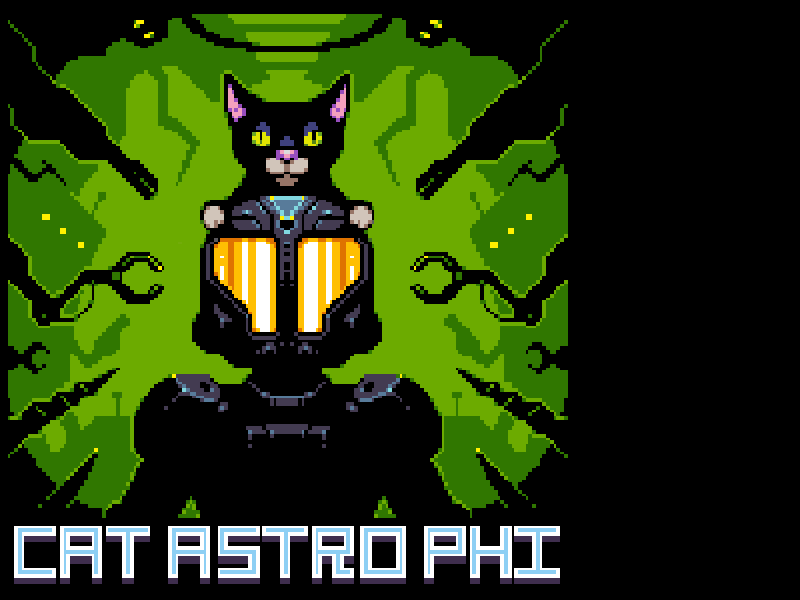
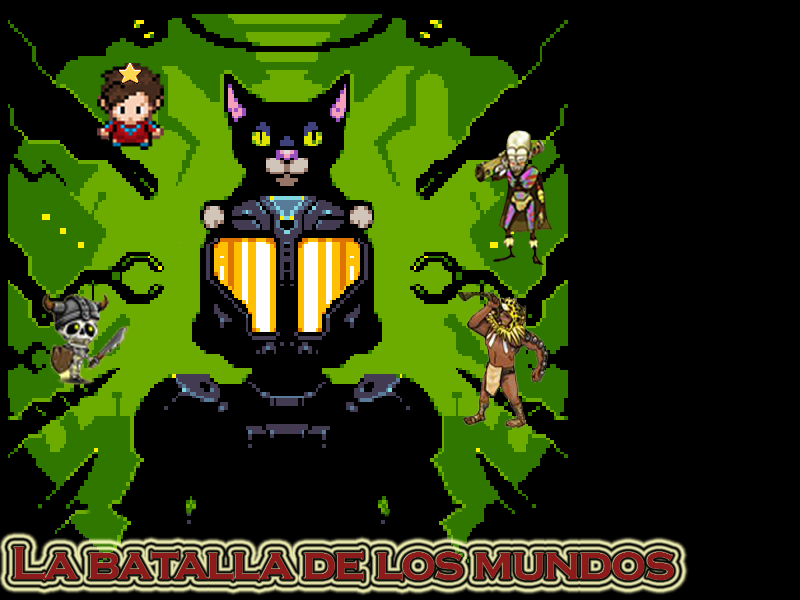
juego casi terminado

diff --git a/js/starstruck.js b/js/starstruck.js
@@ -13,6 +13,8 @@ function preload() {
     game.load.image('background', 'assets/games/starstruck/h.jpg');
     game.load.audio('vallenato', 'assets/games/starstruck/vallenato.mp3');
     game.load.image('star', 'assets/games/starstruck/star.png');
+    game.load.image('vencedor', 'assets/games/starstruck/ganador.png');
+    game.load.image('fallido', 'assets/games/starstruck/gameov.png');
 }
 
 var map;
@@ -28,8 +30,18 @@ var calavera=[];
 var bulletTime = 0;
 var FireI;
 var FireD;
-function create() {
+var puntaje=0;
+var puntajeTexto;
+var vidas=3;
+var textoEstado;
+var numeroEnemigos=50;
+var meta;
 
+function ganador(){
+    bg = game.add.tileSprite(0, 0, 1200, 600, 'vencedor');
+    bg.fixedToCamera = true;
+}
+function create() {
 
 //---------------audio--------------------------///
 
@@ -38,7 +50,7 @@ function create() {
   
 //--------------------fin audio-------------------------//
 
-
+//---------------background--------------------------///
     game.physics.startSystem(Phaser.Physics.ARCADE);
 
     game.stage.backgroundColor = '#000000';
@@ -60,8 +72,10 @@ function create() {
     layer.resizeWorld();
 
     game.physics.arcade.gravity.y = 250;
+//-----------------------------------------///
 
-    player = game.add.sprite(120, 100, 'dude');
+//---------------jugador--------------------------///
+            player = game.add.sprite(120, 100, 'dude');
     game.physics.enable(player, Phaser.Physics.ARCADE);
 
     player.body.bounce.y = 0.2;
@@ -74,16 +88,39 @@ function create() {
 
     game.camera.follow(player);
 
+
+    meta = game.add.sprite(630, 976, 'starBig');
+    game.physics.enable(meta, Phaser.Physics.ARCADE);
+
+    meta.body.bounce.y = 0.2;
+    meta.body.collideWorldBounds = true;
+    meta.body.setSize(20, 32, 5, 16);
+    meta.anchor.setTo(0.5, 0.5)
+
+//-----------------------------------------///
+
+//---------------texto--------------------------///
+ textoEstado = game.add.text(100,0,'Numero de vidas: '+vidas, { font: '50px Arial', fill: '#99f' }); 
+
+textoEstado.anchor.setTo(0.5, 0.5);
+
+ textoEstado.visible = true; 
+//------------------------------------------------///
+
+//---------------teclado--------------------------///
+
     cursors = game.input.keyboard.createCursorKeys();
     jumpButton = game.input.keyboard.addKey(Phaser.Keyboard.SPACEBAR);
     FireI = game.input.keyboard.addKey(Phaser.Keyboard.A);
     FireD = game.input.keyboard.addKey(Phaser.Keyboard.S);
+//------------------------------------------------///
+
 
         //  Our bullet group
     bullets = game.add.group();
     bullets.enableBody = true;
     bullets.physicsBodyType = Phaser.Physics.ARCADE;
-    bullets.createMultiple(1, 'star');
+    bullets.createMultiple(5, 'star');
     bullets.setAll('anchor.x', 0.5);
     bullets.setAll('anchor.y', 1);
     bullets.setAll('outOfBoundsKill', true);
@@ -95,7 +132,8 @@ function create() {
     enemigos = game.add.group();
     enemigos.enableBody = true;
     enemigos.physicsBodyType = Phaser.Physics.ARCADE;
-    for (var x = 0; x < 30; x++)
+    
+    for (var x = 0; x < numeroEnemigos; x++)
         {
             calavera[x] = enemigos.create(game.world.randomX, game.world.randomY,'enemihuesos');
             calavera[x].anchor.setTo(0.5, 0.5);
@@ -113,6 +151,8 @@ function create() {
     tween.onLoop.add(descend, this);
 //------------------</enemigos>-------------------//
 
+
+
 }
 
 function movimientoEnemigo(enemigo){
@@ -129,22 +169,58 @@ function collisionHandler(player, enemigos){
 }
 function muertePlayer(player){
     player.kill();
+    var sprite = game.add.sprite(game.world.centerX, game.world.centerY, 'fallido');
+
+    sprite.anchor.setTo(0.5, 0.5);
+    sprite.alpha = 0;
+
+    //  Create our tween. This will fade the sprite to alpha 1 over the duration of 2 seconds
+    var tween = game.add.tween(sprite).to( { alpha: 1 }, 2000, "Linear", true, 0, -1);
+
+    //  And this tells it to yoyo, i.e. fade back to zero again before repeating.
+    //  The 3000 tells it to wait for 3 seconds before starting the fade back.
+    tween.yoyo(true, 3000);
+    tween.fixedToCamera = false;
+    vidas=0;
 }
 function muerteEnemigo(bullets, enemigos){
     bullets.kill();
     enemigos.kill();
 }
+function victoria(player, meta){
+    player.kill();
+    meta.kill();
+
+    var sprite = game.add.sprite(game.world.centerX, game.world.centerY, 'vencedor');
+
+    sprite.anchor.setTo(0.5, 0.5);
+    sprite.alpha = 0;
+
+    //  Create our tween. This will fade the sprite to alpha 1 over the duration of 2 seconds
+    var tween = game.add.tween(sprite).to( { alpha: 1 }, 2000, "Linear", true, 0, -1);
+
+    //  And this tells it to yoyo, i.e. fade back to zero again before repeating.
+    //  The 3000 tells it to wait for 3 seconds before starting the fade back.
+    tween.yoyo(true, 3000);
+    tween.fixedToCamera = false;
+}
+
 function update() {
+
     bg.tilePosition.y += 1;
     //Colisiones entre elementos del juego
     game.physics.arcade.collide(player, layer);
     game.physics.arcade.collide(enemigos, layer);
     //game.physics.arcade.collide(enemigos, bullets);
-    game.physics.arcade.collide(enemigos, enemigos);
+    //game.physics.arcade.collide(enemigos, enemigos);
+    //game.physics.arcade.collide(player, meta);
+    game.physics.arcade.collide(layer, meta);
     player.body.velocity.x = 0;
     if(player.alive){
         game.physics.arcade.overlap(player, enemigos, muertePlayer, null, this);
+
         game.physics.arcade.overlap(bullets, enemigos, muerteEnemigo, null, this);
+        game.physics.arcade.overlap(player, meta, victoria, null, this);
     }
     if (cursors.left.isDown)
     {
@@ -248,9 +324,15 @@ function fireBulletIzq() {
 
 }
 
+function crearJugador(){
+
+}
 function render () {
 
-    game.debug.text(game.time.physicsElapsed, 32, 32);
+    /*game.debug.text(game.time.physicsElapse, 32, 32);
      game.debug.body(player);
-     game.debug.bodyInfo(player, 16, 24);
+     game.debug.bodyInfo(player, 16, 24);*/
+}
+function ganador(){
+
 }

diff --git a/js/butonAudio.js b/js/butonAudio.js
@@ -5,7 +5,7 @@ function preload() {
 
     game.load.image('title', 'assets/games/inicio/catastrophi.png');
 
-    game.load.image('button', 'assets/games/inicio/star2.png', 22, 22);
+    game.load.image('button', 'assets/games/inicio/boton1.png', 11, 5);
     game.load.bitmapFont('nokia', 'assets/games/inicio/nokia16black.png', 'assets/games/inicio/nokia16black.xml');
     // game.load.audio('sfx', [ 'assets/audio/SoundEffects/fx_mixdown.mp3', 'assets/audio/SoundEffects/fx_mixdown.ogg' ]);
     game.load.audio('sfx', 'assets/games/inicio/audio/fx_mixdown.ogg');
@@ -38,15 +38,16 @@ function create() {
 	fx.addMarker('squit', 19, 0.3);
 
 	//	Make some buttons to trigger the sounds
-	makeButton('alien death', 600, 100);
-	makeButton('boss hit', 600, 140);
-	makeButton('escape', 600, 180);
+	makeButton('Iniciar', 600, 100);
+	/*
+	makeButton('boss hit', 600, 180);
+	makeButton('escape', 600, 260);
 	makeButton('meow', 600, 220);
 	makeButton('numkey', 600, 260);
 	makeButton('ping', 600, 300);
 	makeButton('death', 600, 340);
 	makeButton('shot', 600, 380);
-	makeButton('squit', 600, 420);
+	makeButton('squit', 600, 420);*/
 
 }
 
@@ -54,10 +55,10 @@ function makeButton(name, x, y) {
 
     var button = game.add.button(x, y, 'button', click, this, 0, 1, 2);
     button.name = name;
-    button.scale.set(2, 1.5);
+    button.scale.set(0.3, 0.3);
     button.smoothed = false;
 
-    var text = game.add.bitmapText(x, y + 7, 'nokia', name, 16);
+    var text = game.add.bitmapText(x, y + 54, 'nokia', name, 16);
     text.x += (button.width / 2) - (text.textWidth / 2);
 
 }
@@ -85,6 +86,7 @@ function mostrarAviso(){
 }
 function rediret(){
 		//window.location.href = "https://www.tutorialrepublic.com/"
-		window.location.href = "file:///C:/Users/Rigo/Documents/NetBeansProjects/actualizado/videojuego/index.html"
+		window.location.href = "http://caicedo2k18.000webhostapp.com/labatalladelosmundos.html"
+		//window.location.href = "file:///C:/Users/Rigo/Documents/NetBeansProjects/actualizado/videojuego/index.html"
 		
 }

diff --git a/labatalladelosmundos.html b/labatalladelosmundos.html
@@ -2,14 +2,14 @@
 <html lang="en" xml:lang="en" xmlns="http://www.w3.org/1999/xhtml">
     <head>
         <meta content="text/html; charset=utf-8" http-equiv="Content-Type">
-        <title>La batalla de los 8 mundos</title>
+        <title>La batalla de los mundos</title>
         <script src="js/jquery-2.0.3.min.js" type="text/javascript"></script>
         <script src="js/phaser.2.6.2.min.js" type="text/javascript"></script>
         <script src="js/blob.js" type="text/javascript"></script>
         <script src="js/canvas-to-blob.js" type="text/javascript"></script>
         <script src="js/filesaver.js" type="text/javascript"></script>
-        <!--<script src="js/starstruck.js" type="text/javascript"></script>-->
-        <script src="js/butonAudio.js" type="text/javascript"></script>
+        <script src="js/starstruck.js" type="text/javascript"></script>
+        <!--<script src="js/yoyo.js" type="text/javascript"></script>-->
     </head>
     <body>
 <!--esto es un comentario de prueba-->
@@ -26,6 +26,6 @@
 
         </script>
 <!--esto es un comentraio-->
- <iframe src="index.html" height="600" width="800"></iframe> 
+
 </body>
 </html>

diff --git a/index.html b/index.html
@@ -2,14 +2,14 @@
 <html lang="en" xml:lang="en" xmlns="http://www.w3.org/1999/xhtml">
     <head>
         <meta content="text/html; charset=utf-8" http-equiv="Content-Type">
-        <title>La batalla de los 8 mundos</title>
+        <title>La batalla de los mundos</title>
         <script src="js/jquery-2.0.3.min.js" type="text/javascript"></script>
         <script src="js/phaser.2.6.2.min.js" type="text/javascript"></script>
         <script src="js/blob.js" type="text/javascript"></script>
         <script src="js/canvas-to-blob.js" type="text/javascript"></script>
         <script src="js/filesaver.js" type="text/javascript"></script>
-        <script src="js/starstruck.js" type="text/javascript"></script>
-        <!--<script src="js/yoyo.js" type="text/javascript"></script>-->
+        <!--<script src="js/starstruck.js" type="text/javascript"></script>-->
+        <script src="js/butonAudio.js" type="text/javascript"></script>
     </head>
     <body>
 <!--esto es un comentario de prueba-->
@@ -26,6 +26,5 @@
 
         </script>
 <!--esto es un comentraio-->
-
 </body>
 </html>
